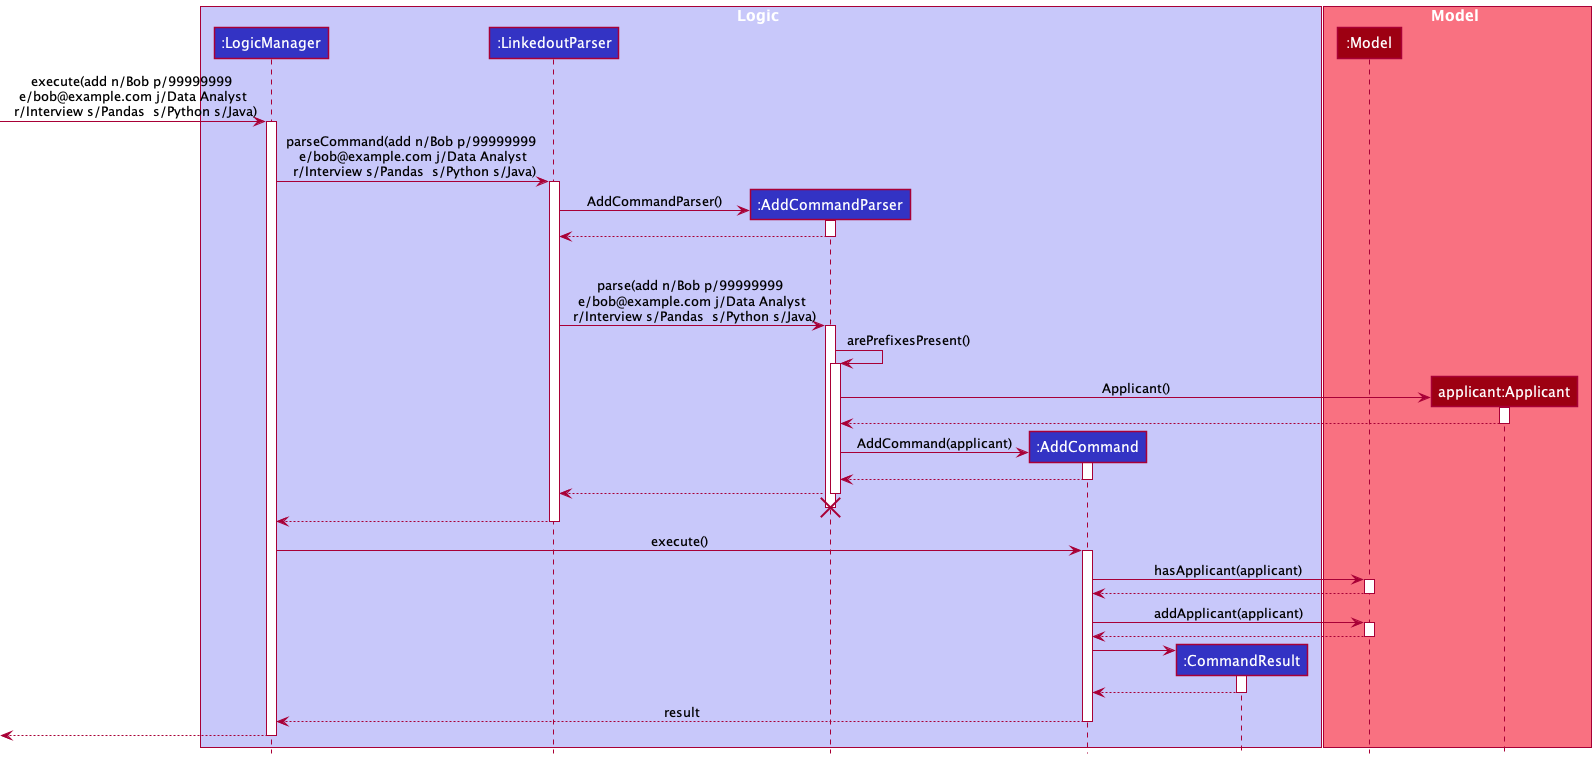
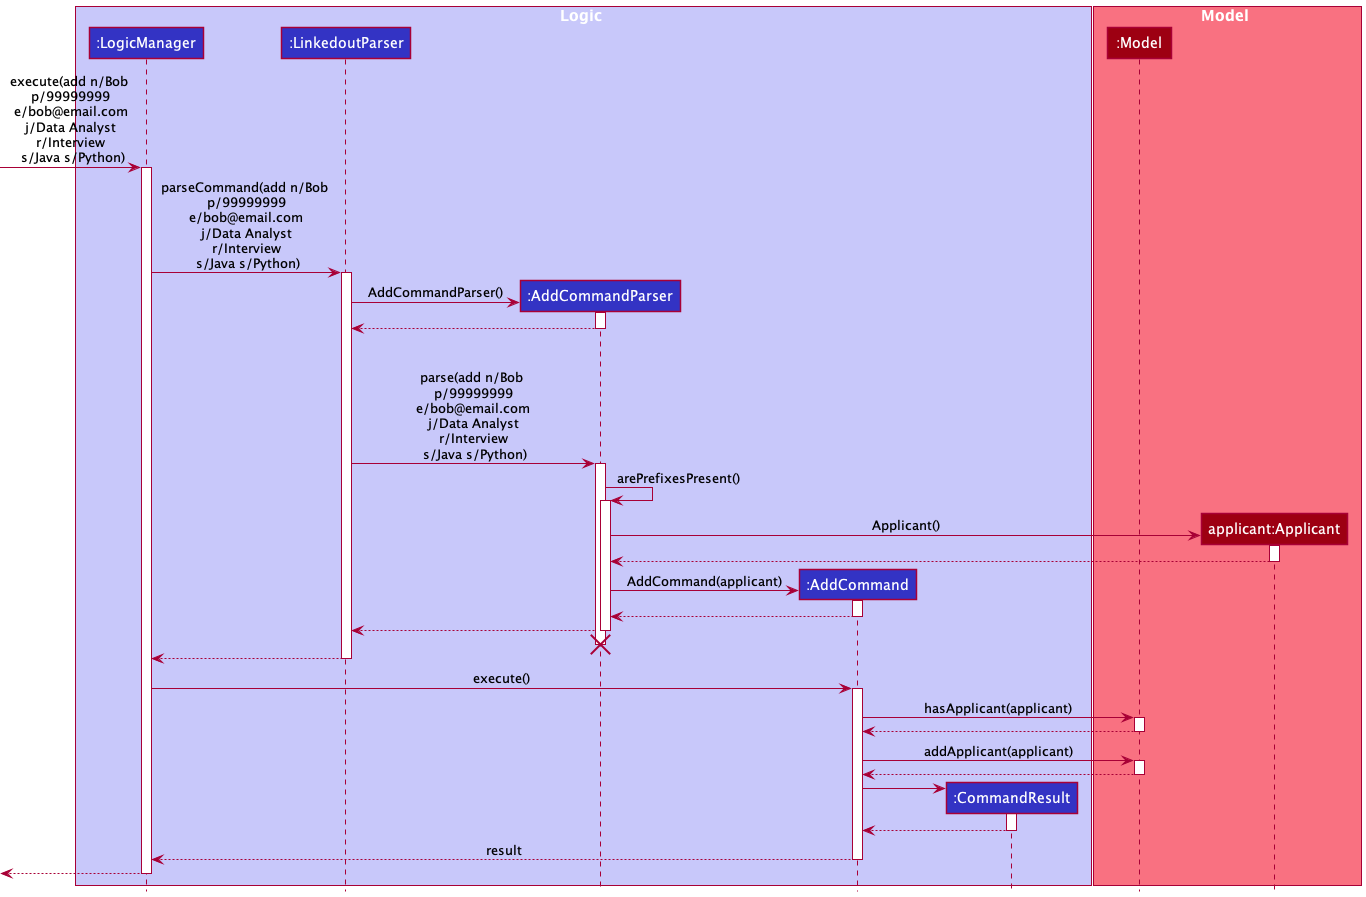
update add command sequence diagram, shorten the command and add more lines

diff --git a/docs/DeveloperGuide.md b/docs/DeveloperGuide.md
@@ -238,9 +238,9 @@ in the Activity Diagram. This is a known limitation of PlantUML.</div>
 
 Given below is an example usage scenario of how an applicant is added, and how the operation is handled by LinkedOUT:
 
-1. The user enters a valid add command, for example: `add n/Bob p/99999999 e/bob@example.com j/Data Analyst r/Interview s/Pandas s/Python s/Java`. For each command
+1. The user enters a valid add command, for example: `add n/Bob p/99999999 e/bob@email.com j/Data Analyst r/Interview s/Java s/Python`. For each command
 `LogicManager#execute()` is invoked, which calls `LinkedoutParser#parseCommand()` to separate the command word `add` and the argument
-`n/Bob p/99999999 e/bob@example.com j/Data Analyst r/Interview s/Pandas s/Python s/Java`
+`n/Bob p/99999999 e/bob@email.com j/Data Analyst r/Interview s/Java s/Python`
 
 
 2. Upon identifying the add command, `AddCommandParser` is instantiated and uses `AddCommandParser#parse()` to
